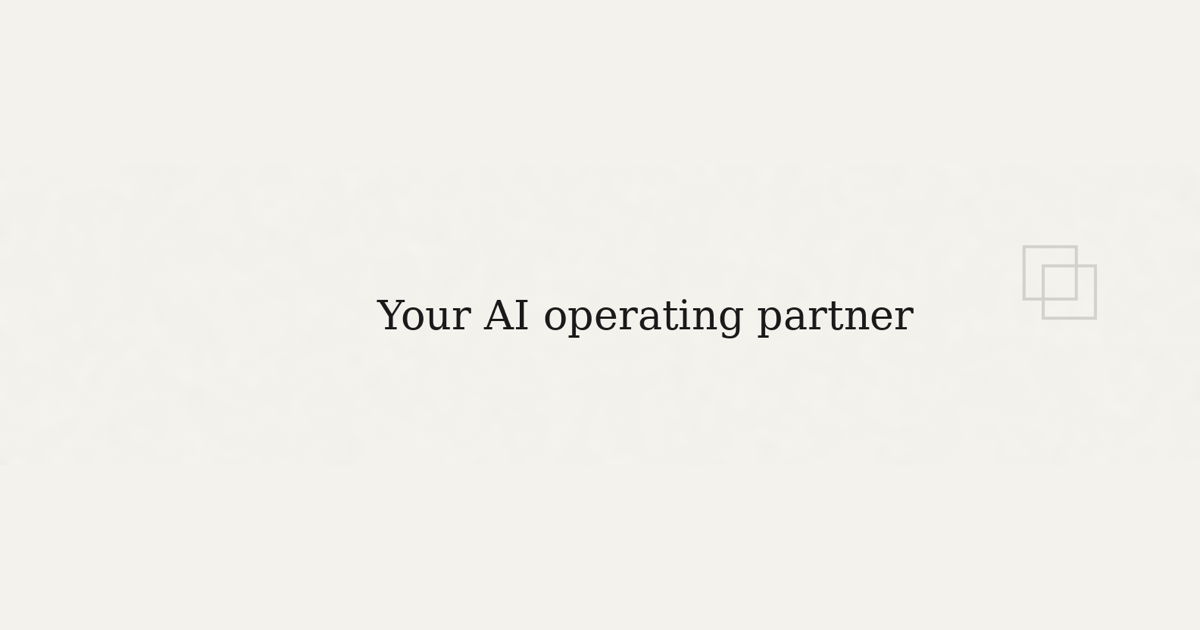
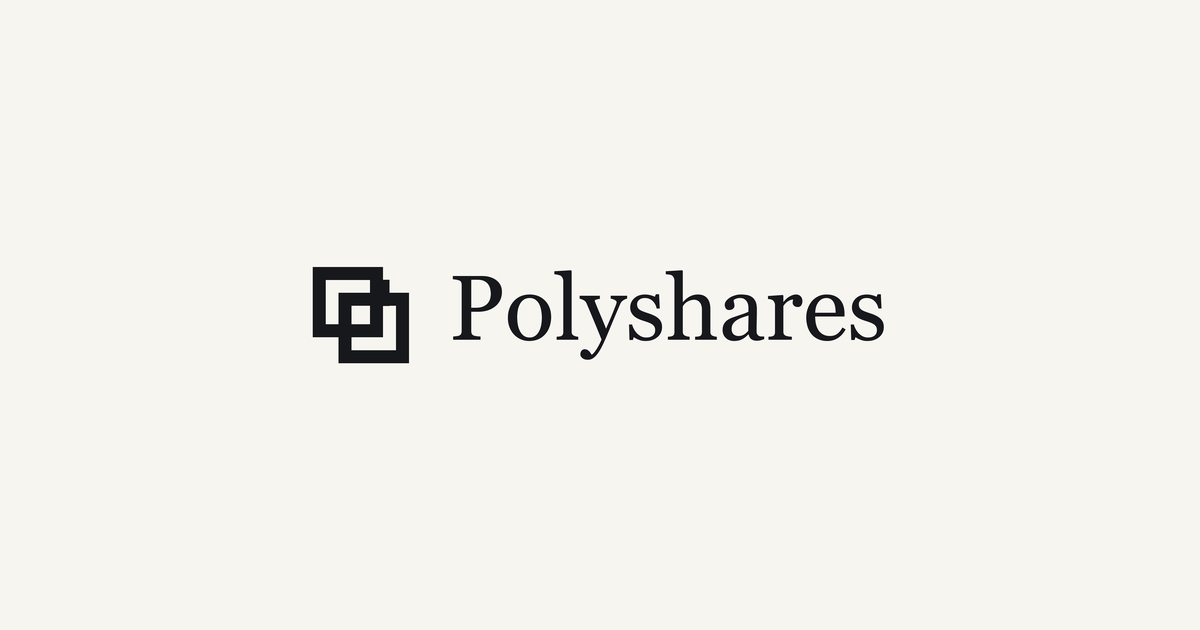
Replace the social card with the wordmark
The link preview was still the old card reading "Your AI operating
partner", so every shared link showed the positioning the site no longer
uses. It is now the mark and the wordmark on the brand cream, nothing
else.

Bumps the og:image URL to ?v=2 so LinkedIn, Slack and the rest refetch
instead of serving the old card from cache.

Changed region(s): [[0.2467, 0.4222, 0.7708, 0.6032], [0.8633, 0.3619, 0.925, 0.5127]]

diff --git a/index.html b/index.html
@@ -10,7 +10,7 @@
 <meta property="og:description" content="Polyshares represents companies selling their operational data, and acquires lower middle market businesses outright.">
 <meta property="og:type" content="website">
 <meta property="og:url" content="https://polyshares.com/">
-<meta property="og:image" content="https://polyshares.com/assets/og-image.png">
+<meta property="og:image" content="https://polyshares.com/assets/og-image.png?v=2">
 <meta name="twitter:card" content="summary_large_image">
 <link rel="icon" href="/favicon.ico" sizes="any">
 <link rel="icon" href="/favicon.svg" type="image/svg+xml">
@@ -20,7 +20,7 @@
 <link href="https://fonts.googleapis.com/css2?family=Fraunces:ital,opsz,wght@0,9..144,300..500;1,9..144,300..500&family=Inter:wght@400;500&display=swap" rel="stylesheet">
 <link rel="stylesheet" href="/poly.css">
 <script type="application/ld+json">
-{"@context":"https://schema.org","@type":"Organization","name":"Polyshares","url":"https://polyshares.com/","logo":"https://polyshares.com/assets/og-image.png","description":"Polyshares represents companies selling their operational data, and acquires lower middle market businesses outright.","sameAs":["https://www.linkedin.com/company/polyshares"]}
+{"@context":"https://schema.org","@type":"Organization","name":"Polyshares","url":"https://polyshares.com/","logo":"https://polyshares.com/assets/og-image.png?v=2","description":"Polyshares represents companies selling their operational data, and acquires lower middle market businesses outright.","sameAs":["https://www.linkedin.com/company/polyshares"]}
 </script>
 </head>
 <body>

diff --git a/case-studies.html b/case-studies.html
@@ -11,7 +11,7 @@
 <meta property="og:description" content="Eight acquisitions closed, over $100M of revenue built with partners, and $21M raised. The companies behind Polyshares.">
 <meta property="og:type" content="website">
 <meta property="og:url" content="https://polyshares.com/case-studies">
-<meta property="og:image" content="https://polyshares.com/assets/og-image.png">
+<meta property="og:image" content="https://polyshares.com/assets/og-image.png?v=2">
 <meta name="twitter:card" content="summary_large_image">
 <link rel="icon" href="/favicon.ico" sizes="any">
 <link rel="icon" href="/favicon.svg" type="image/svg+xml">

diff --git a/team.html b/team.html
@@ -11,7 +11,7 @@
 <meta property="og:description" content="The partners at Polyshares have founded companies, raised capital, and bought and sold businesses of their own.">
 <meta property="og:type" content="website">
 <meta property="og:url" content="https://polyshares.com/team">
-<meta property="og:image" content="https://polyshares.com/assets/og-image.png">
+<meta property="og:image" content="https://polyshares.com/assets/og-image.png?v=2">
 <meta name="twitter:card" content="summary_large_image">
 <link rel="icon" href="/favicon.ico" sizes="any">
 <link rel="icon" href="/favicon.svg" type="image/svg+xml">

diff --git a/intake.html b/intake.html
@@ -10,7 +10,7 @@
 <meta property="og:description" content="Five questions to find out whether your company's operational data is something Polyshares would license.">
 <meta property="og:type" content="website">
 <meta property="og:url" content="https://polyshares.com/intake">
-<meta property="og:image" content="https://polyshares.com/assets/og-image.png">
+<meta property="og:image" content="https://polyshares.com/assets/og-image.png?v=2">
 <meta name="twitter:card" content="summary_large_image">
 <link rel="icon" href="/favicon.ico" sizes="any">
 <link rel="icon" href="/favicon.svg" type="image/svg+xml">

diff --git a/intake-details.html b/intake-details.html
@@ -11,7 +11,7 @@
 <meta property="og:description" content="The detailed data intake a qualified company completes before a call with a Managing Partner.">
 <meta property="og:type" content="website">
 <meta property="og:url" content="https://polyshares.com/intake-details">
-<meta property="og:image" content="https://polyshares.com/assets/og-image.png">
+<meta property="og:image" content="https://polyshares.com/assets/og-image.png?v=2">
 <meta name="twitter:card" content="summary_large_image">
 <link rel="icon" href="/favicon.ico" sizes="any">
 <link rel="icon" href="/favicon.svg" type="image/svg+xml">
